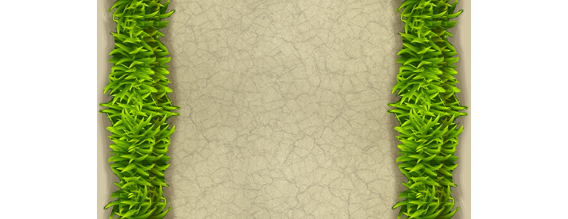
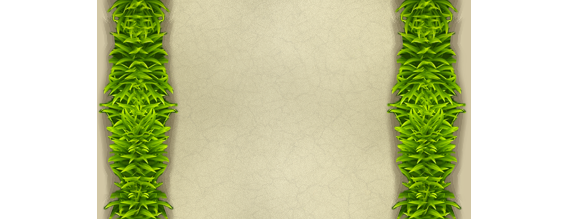
Adding the sprite of the beds

diff --git a/source/js/core/bed.js b/source/js/core/bed.js
@@ -11,13 +11,12 @@ function Bed(context) {
 	this.spriteDirection = 1;
 	this.spriteTile = 0;
 	this.width = 161;
-	this.height = 109;
+	this.height = 170;
 	this.x = 0;
 	this.y = 0;
-	this.isSpriteLocked = false;
 	this.accumulator = 0;
 	this.context = context;
-	this.paused = true;
+	this.wasBumped = false;
 }
 
 Bed.prototype = new Drawable();
@@ -30,18 +29,38 @@ Bed.prototype.setPosition = function (position) {
 		this.x = this.widthKnownArea - this.width - this.borderOffset;
 	}
 
-	this.setImage(imageRepository.getImage("bed-" + position));
+	this.setImage(imageRepository.getImage("bed-" + position), this.width);
 };
 
 Bed.prototype.beforeRender = function () {
+	if(!this.wasBumped) {
+		this.accumulator = 0;
+		this.spriteTile = 0;
+		return;
+	}
 	this.accumulator += 1;
-	if(this.accumulator < 10) return;
-	this.isSpriteLocked = false;
+	if(this.accumulator < 25) return;
 	this.accumulator = 0;
+
+	this.spriteTile += this.spriteDirection;
+
+	if(this.spriteTile === 3) {
+		this.spriteDirection = -1;
+	} else if(this.spriteTile === 1) {
+		this.spriteDirection = 1;
+	}
+
+	this.changeSpriteTile();
 };
 
 Bed.prototype.changeSpriteTile = function () {
 	this.imageX = this.spriteTile * this.width;
+};
+
+Bed.prototype.bump = function () {
+	if(this.wasBumped) return;
+	this.accumulator = 25;
+	this.wasBumped = true;
 };
 
 Bed.prototype.setWidthKnownArea = function (width) {

diff --git a/source/js/core/scene.js b/source/js/core/scene.js
@@ -37,7 +37,7 @@ Scene.prototype.reset = function () {
 	this.bumpedObject = null;
 	this.setImageY(0);
 
-	this.pauseRolling();
+	this.pauseScrollDown();
 
 	this.objectList = [];
 
@@ -50,7 +50,7 @@ Scene.prototype.reset = function () {
 
 };
 
-Scene.prototype.pauseRolling = function () {
+Scene.prototype.pauseScrollDown = function () {
 	if(this.char) {
 		this.char.pause();
 		this.char.stopWalking();
@@ -142,7 +142,7 @@ Scene.prototype.getObjectPosition = function() {
 };
 
 Scene.prototype.onPause = function () {
-	this.pauseRolling();
+	this.pauseScrollDown();
 };
 
 Scene.prototype.afterRender = function () {
@@ -178,8 +178,8 @@ Scene.prototype.afterRender = function () {
 		if(step === 0) {
 			this.char.stopWalking();
 			if(this.bumpedObject) {
-				this.pause();
-				this.bumpedObject = null;
+				this.bumpedObject.bump();
+				this.char.isHide = true;
 				return;
 			}
 		} else {

diff --git a/source/less/layout/app.less b/source/less/layout/app.less
@@ -1,6 +1,8 @@
 .app {
 	height: 100%;
 	background-color: #d0c6a4;
+	background-image: linear-gradient(90deg, transparent 50%, rgba(255,255,255,.14) 40%);
+	background-size: 8px 200px;
 	box-sizing: border-box;
 
 	&-body {
@@ -9,5 +11,19 @@
 		min-height: 100%;
 		position: relative;
 		margin: 0 auto;
+	}
+
+	&:before {
+		/*content: "";*/
+		position: absolute;
+		left: 0;
+		top:0;
+		right: 0;
+		bottom: 0;
+		background-image: linear-gradient(rgba(255,255,255,.3) 2px, transparent 2px),
+		linear-gradient(90deg, rgba(255,255,255,.3) 2px, transparent 2px);
+		background-size:170px 170px, 170px 170px;
+		background-position:-2px bottom, -2px -2px;
+		z-index: 2;
 	}
 }

diff --git a/source/js/core/char.js b/source/js/core/char.js
@@ -15,6 +15,7 @@ function Char(context) {
 	this.isSpriteLocked = false;
 	this.accumulator = 0;
 	this.borderOffset = 0;
+	this.isHide = 0;
 
 	this.context = context;
 	this.setImage(imageRepository.getImage("char"), this.width);
@@ -23,6 +24,10 @@ function Char(context) {
 Char.prototype = new Drawable();
 
 Char.prototype.beforeRender = function () {
+	if(this.isHide) {
+		this.accumulator = 0;
+		this.imageX = this.width * - 1;
+	}
 	this.accumulator += 1;
 	if(this.accumulator < 2) return;
 	this.isSpriteLocked = false;
